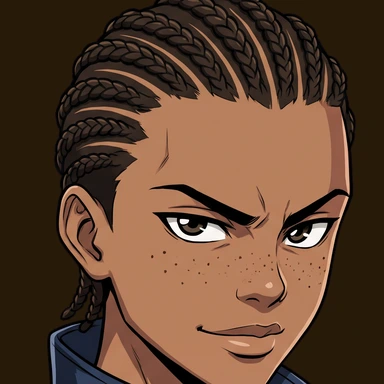
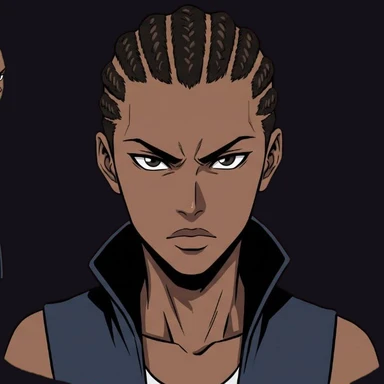
New portraits for Obiri, Blay, Agyekum, Bediako; balance retune with spells on both sides
Claude-Session: https://claude.ai/code/session_01KCvu1msLSb5oPSxPwoexAA

diff --git a/squads/data.js b/squads/data.js
@@ -21,21 +21,21 @@ export const CLASSES = {
 // Growth: one point per level. Speed points cost 2 and cap at SPD_CAP points.
 export const GROWTH = { hp: 0.05, atk: 0.05, mag: 0.05, tec: 0.05, spd: 2, spdCost: 2, spdCap: 5 };
 export const HEROES = {
-  blay:     { name: 'Blay',     role: 'Asafo',        kr: 'asafo',        en: 'Sword fighter', rarity: 'R',   size: 1.28, hp: 1100, atk: 66, mag: 40, tec: 14, def: 26, cls: 'warrior', spd: 100, cd: [2, 3], flip: [0, 0, 0],
+  blay:     { name: 'Blay',     role: 'Asafo',        kr: 'asafo',        en: 'Sword fighter', rarity: 'R',   size: 1.28, hp: 1180, atk: 72, mag: 40, tec: 18, def: 26, cls: 'warrior', spd: 100, cd: [2, 3], flip: [0, 0, 0],
     kit: ['Slash', 'Twin Cut', 'Parry', 'Gyawu Atiko'], notes: ['One afena cut.', 'Two cuts and the enemy\'s defence drops for 2 turns.', 'Guard: the next hit is halved and Blay strikes back.', 'Valour of Gyawu: a huge cut. Kills outright below 30% health.'], sym: 'gyawuAtiko' },
-  owureku:  { name: 'Owureku',  role: 'Ɔbrafo',       kr: 'ɔberafo',      en: 'Twin-axe bruiser', rarity: 'R', size: 0.94, hp: 1080, atk: 60, mag: 30, tec: 12, def: 30, cls: 'warrior', spd: 100, cd: [3, 3], flip: [0, 0, 0],
+  owureku:  { name: 'Owureku',  role: 'Ɔbrafo',       kr: 'ɔberafo',      en: 'Twin-axe bruiser', rarity: 'R', size: 0.94, hp: 1000, atk: 56, mag: 30, tec: 12, def: 30, cls: 'warrior', spd: 100, cd: [3, 3], flip: [0, 0, 0],
     kit: ['Axe Chop', 'Axe Toss', 'War Cry', 'Ese Ne Tekrema'], notes: ['Heavy axe chop.', 'Hurls an axe: damage and a 1-turn stun that cancels a charged attack.', 'Hits 30% harder for 3 turns and heals 10%.', 'Teeth and tongue: three heavy blows in a row.'], sym: 'eseNeTekrema' },
-  gyakari:  { name: 'Gyakari',  role: 'Banbɔfo',      kr: 'banbɔfo',      en: 'Shield tank', rarity: 'R',     size: 1.14, hp: 940, atk: 42, mag: 42, tec: 10, def: 32, cls: 'guardian', spd: 84, cd: [3, 3], flip: [0, 0, 0],
+  gyakari:  { name: 'Gyakari',  role: 'Banbɔfo',      kr: 'banbɔfo',      en: 'Shield tank', rarity: 'R',     size: 1.14, hp: 880, atk: 42, mag: 42, tec: 10, def: 28, cls: 'guardian', spd: 84, cd: [3, 3], flip: [0, 0, 0],
     kit: ['Spear Jab', 'Shield Bash', 'Brace', 'Eban'], notes: ['Spear jab.', 'Bash: damage and a 1-turn stun that cancels a charged attack.', 'Raises his shield: absorbs 30% of his health for 2 turns.', 'The fence: a huge shield, then a counter-thrust that grows with the shield.'], sym: 'eban' },
   obiri:    { name: 'Obiri',    role: 'Toprefo',      kr: 'toperefo',     en: 'Marksman', rarity: 'SR',       size: 1.0,  hp: 840, atk: 68, mag: 46, tec: 22, def: 20, cls: 'hunter', spd: 108, cd: [2, 3], flip: [0, 0, 0],
     kit: ['Arrow', 'Pinning Shot', 'Steady Aim', 'Hwemudua'], notes: ['An arrow.', 'Pins the enemy: damage and slowed for 2 turns.', 'The next attack is a critical hit that ignores defence.', 'The measuring stick: one exact shot for massive damage. Always critical.'], sym: 'hwemuDua' },
-  kuukua:   { name: 'Kuukua',   role: 'Asafo',        kr: 'asafo',        en: 'Spear lancer', rarity: 'SR',   size: 1.08, hp: 1000, atk: 66, mag: 40, tec: 22, def: 28, cls: 'hunter', spd: 108, cd: [2, 3], flip: [0, 0, 0],
+  kuukua:   { name: 'Kuukua',   role: 'Asafo',        kr: 'asafo',        en: 'Spear lancer', rarity: 'SR',   size: 1.08, hp: 1080, atk: 66, mag: 40, tec: 22, def: 32, cls: 'hunter', spd: 108, cd: [2, 3], flip: [0, 0, 0],
     kit: ['Thrust', 'Pierce', 'Sweep', 'Epa'], notes: ['Spear thrust.', 'Pierces armour: lowers defence for 2 turns.', 'Sweeps the legs: the enemy loses 40% of its turn meter.', 'No one escapes justice: a rain of spears, double damage on a slowed or weakened enemy.'], sym: 'epa' },
-  kome:     { name: 'Kome',     role: 'Ɔkɔmfo',       kr: 'ɔkɔmfo',       en: 'Spirit priestess', rarity: 'SR', size: 0.92, hp: 800, atk: 40, mag: 80, tec: 10, def: 16, cls: 'sage', spd: 104, cd: [3, 2], flip: [0, 0, 0],
+  kome:     { name: 'Kome',     role: 'Ɔkɔmfo',       kr: 'ɔkɔmfo',       en: 'Spirit priestess', rarity: 'SR', size: 0.92, hp: 800, atk: 40, mag: 74, tec: 10, def: 16, cls: 'sage', spd: 104, cd: [3, 2], flip: [0, 0, 0],
     kit: ['Spirit Bolt', 'Nyame Dua', 'Spirit Fire', 'Hye Won Hye'], notes: ['Fire bolt.', 'Heals 22% and clears stun and burn.', 'Sets the enemy burning for 3 turns.', 'That which does not burn: heals 20% and a blast that doubles on a burning enemy.'], sym: 'hyeWonhye', sym2: 'nyameDua' },
-  afrakoma: { name: 'Afrakoma', role: 'Ɔbrafo',       kr: 'ɔberafo',      en: 'Axe berserker', rarity: 'SSR', size: 0.88,  hp: 1020, atk: 74, mag: 30, tec: 10, def: 24, cls: 'warrior', spd: 100, cd: [2, 3], flip: [0, 0, 0],
+  afrakoma: { name: 'Afrakoma', role: 'Ɔbrafo',       kr: 'ɔberafo',      en: 'Axe berserker', rarity: 'SSR', size: 0.88,  hp: 1100, atk: 82, mag: 30, tec: 10, def: 28, cls: 'warrior', spd: 100, cd: [2, 3], flip: [0, 0, 0],
     kit: ['Cleave', 'Bloodletting', 'Fury', 'Dwannimmen'], notes: ['Big cleave.', 'A cleave that heals for half the damage.', 'Hits 40% harder for 3 turns but costs 10% health.', 'Ram\'s horns: a crushing cleave that heals for half the damage.'], sym: 'dwannimen' },
-  dufie:    { name: 'Dufie',    role: 'Anadwo Sekan', kr: 'anadwo sekan', en: 'Night blade', rarity: 'SSR',   size: 0.98, hp: 1000, atk: 62, mag: 50, tec: 34, def: 26, cls: 'shadow', spd: 124, cd: [2, 3], flip: [0, 0, 0],
+  dufie:    { name: 'Dufie',    role: 'Anadwo Sekan', kr: 'anadwo sekan', en: 'Night blade', rarity: 'SSR',   size: 0.98, hp: 1080, atk: 62, mag: 50, tec: 34, def: 30, cls: 'shadow', spd: 124, cd: [2, 3], flip: [0, 0, 0],
     kit: ['Night Cut', 'Shadow Step', 'Vanish', 'Nkyinkyim'], notes: ['Quick cut.', 'A certain critical strike, then Dufie moves 50% up the turn order.', 'Dodges the next attack completely.', 'The twisting path: six cuts in a row.'], sym: 'nkyimkyim' },
   sekan:    { name: 'Bediako', role: 'Ɔkofoɔ', kr: 'ɔkofoɔ',      en: 'Kickboxer', rarity: 'SR',      size: 1.0,  hp: 860, atk: 54, mag: 32, tec: 26, def: 20, cls: 'shadow', spd: 116, cd: [2, 3], flip: [0, 0, 0],
     kit: ['Jab Cross Kick', 'Spinning Back Kick', 'Flying Knee', 'Fawohodie'], notes: ['A jab, a cross and a high kick.', 'A spinning heel: damage and the enemy loses 30% of its turn meter.', 'A leaping knee: damage and a 1-turn stun that cancels a charged attack.', 'Freedom: a storm of punches and kicks ending in a falling heel that stuns.'], sym: 'fawohodie' },

diff --git a/squads/game.js b/squads/game.js
@@ -1,9 +1,9 @@
 // Gyeaman Squads: Akan squad battler, chapter 1.
 // Battles are turn based on a speed turn order (Dislyte style): every hero picks Basic, Skill (cooldown) or Ultimate (energy)
 // and a target; enemies show their next move. Big moves get impact frames, small ones stay quiet.
-import { KF } from './kf.js?v=20261022g';
-import { HEROES, MONS, STAGES, REGIONS, DIFF, RARITY, STARTERS, SKILL_MAX, skillCost, xpNeed, STAR_SHARDS, LOCKED_CHAPTERS, PULL_COST, PULL10_COST, PITY, PULL_RATES, CLASSES, GROWTH, SPELLS, ULT_DMG, ARENA, MOVE_DMG } from './data.js?v=20261022g';
-import { drawAdinkra, adinkraPath, adinkraSvg, ADINKRA } from './adinkra.js?v=20261022g';
+import { KF } from './kf.js?v=20261022h';
+import { HEROES, MONS, STAGES, REGIONS, DIFF, RARITY, STARTERS, SKILL_MAX, skillCost, xpNeed, STAR_SHARDS, LOCKED_CHAPTERS, PULL_COST, PULL10_COST, PITY, PULL_RATES, CLASSES, GROWTH, SPELLS, ULT_DMG, ARENA, MOVE_DMG } from './data.js?v=20261022h';
+import { drawAdinkra, adinkraPath, adinkraSvg, ADINKRA } from './adinkra.js?v=20261022h';
 
 const ROOT = /\/squads\/?$|\/squads\/index\.html$/.test(location.pathname) ? '../assets/' : 'assets/';
 const A = ROOT + 'sq/';
@@ -62,7 +62,7 @@ const SFX = {
 
 // ---------------- images ----------------
 const IM = {};
-const AV = '?v=20261022g';
+const AV = '?v=20261022h';
 // stale-build guard: phones keep old pages/modules around; if the deployed version.json is newer, reload once onto it
 (async function checkBuild() {
   const mine = AV.slice(3);

diff --git a/squads/index.html b/squads/index.html
@@ -14,10 +14,10 @@
 <link rel="preconnect" href="https://fonts.googleapis.com">
 <link rel="preconnect" href="https://fonts.gstatic.com" crossorigin>
 <link href="https://fonts.googleapis.com/css2?family=Anton&family=Bangers&family=Karla:wght@400;700;800&display=swap" rel="stylesheet">
-<link rel="stylesheet" href="style.css?v=20261022g">
+<link rel="stylesheet" href="style.css?v=20261022h">
 </head>
 <body>
 <div id="app"></div>
-<script type="module" src="game.js?v=20261022g"></script>
+<script type="module" src="game.js?v=20261022h"></script>
 </body>
 </html>
